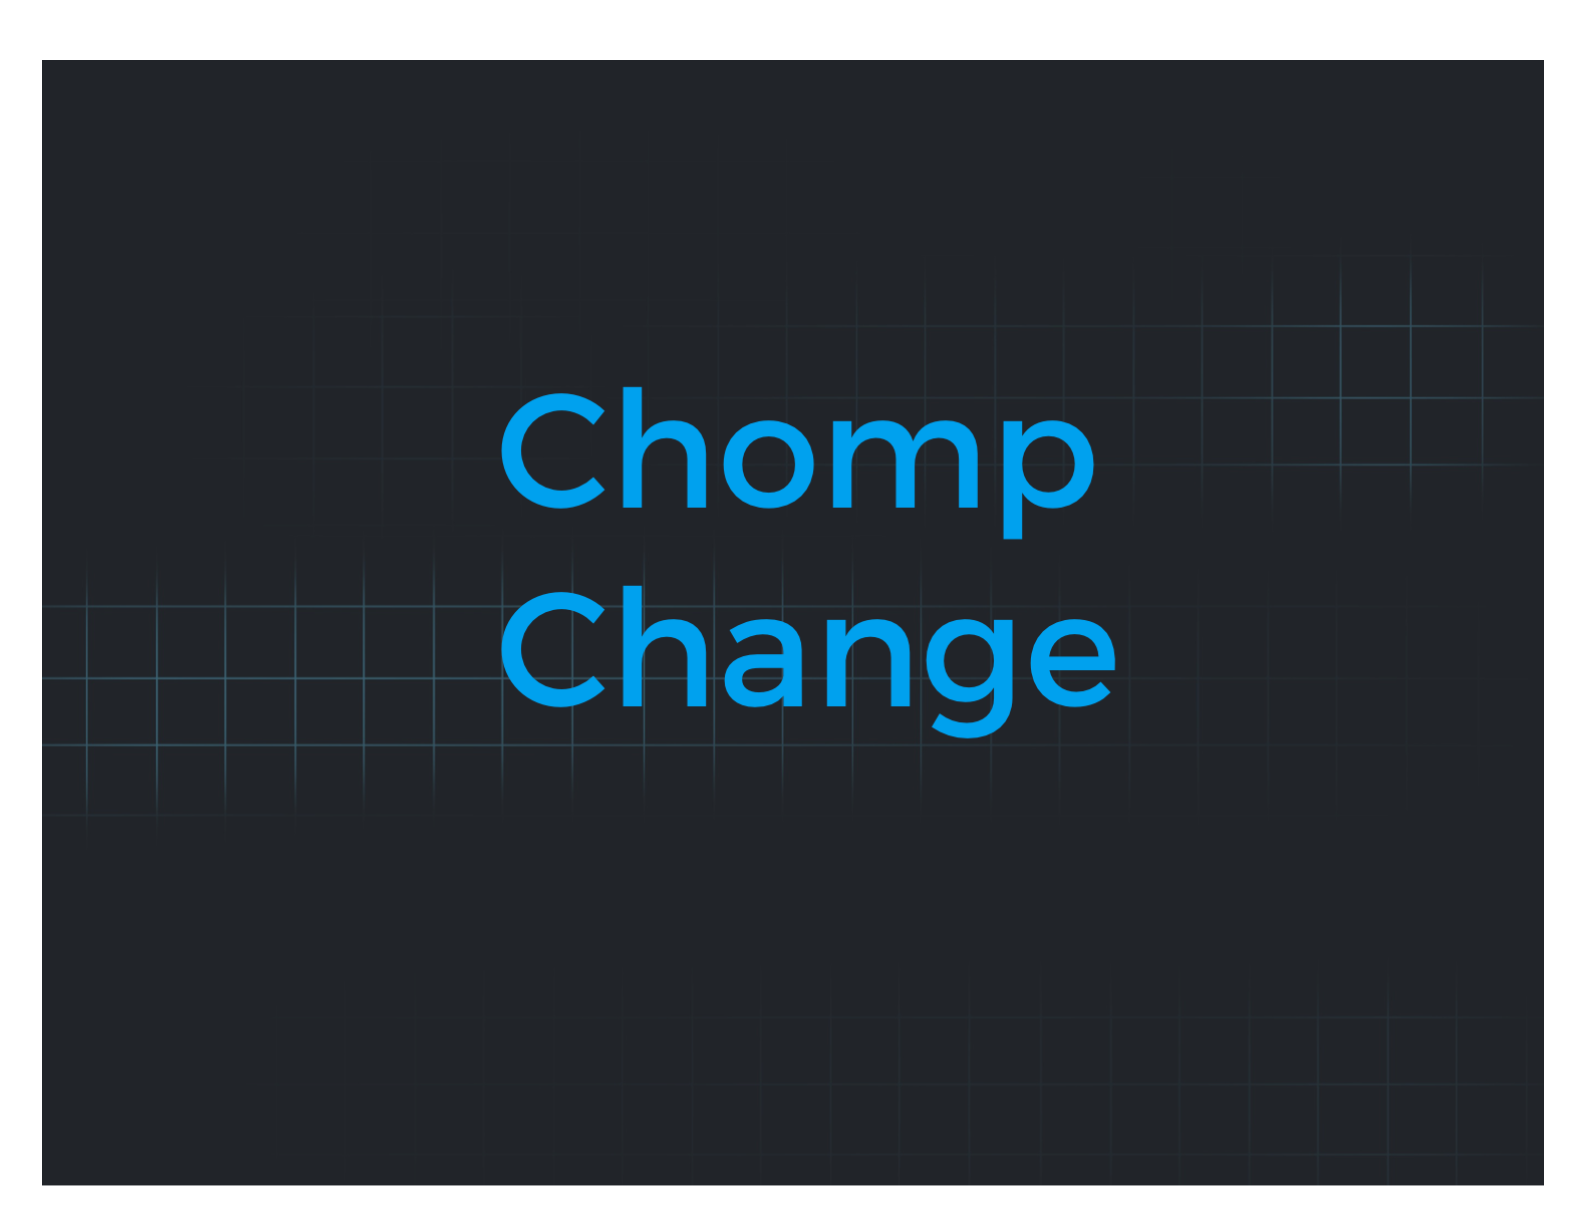
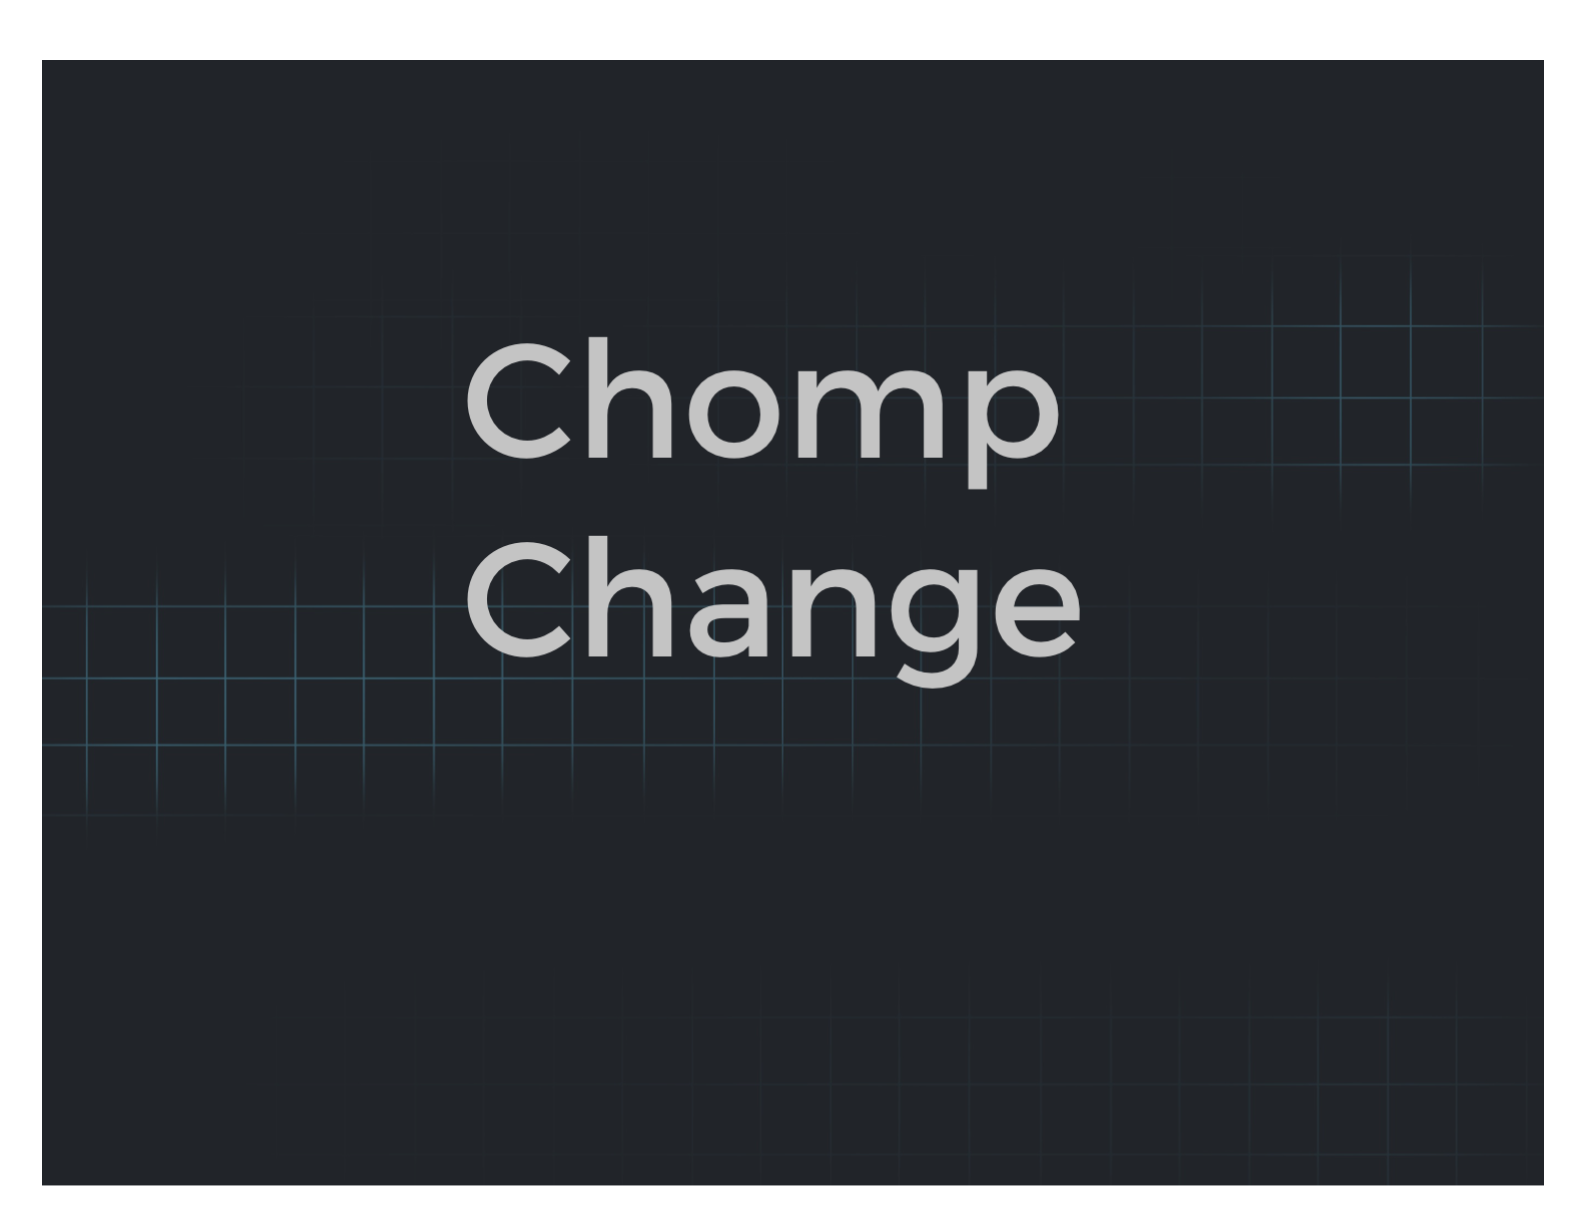
portf-img

Changed region(s): [[0.2784, 0.2794, 0.7115, 0.6209]]

diff --git a/index.html b/index.html
@@ -248,7 +248,7 @@
                 <i class="fas fa-plus fa-3x"></i>
               </div>
             </div>
-            <img class="img-fluid" src="./img/portfolio/Siros-Fitness.png" alt="">
+            <img class="img-fluid" src="./img/portfolio/port-img-3.png" alt="">
           </a>
           <div class="portfolio-caption">
             <!-- <h4>Siros Fitness</h4> -->
